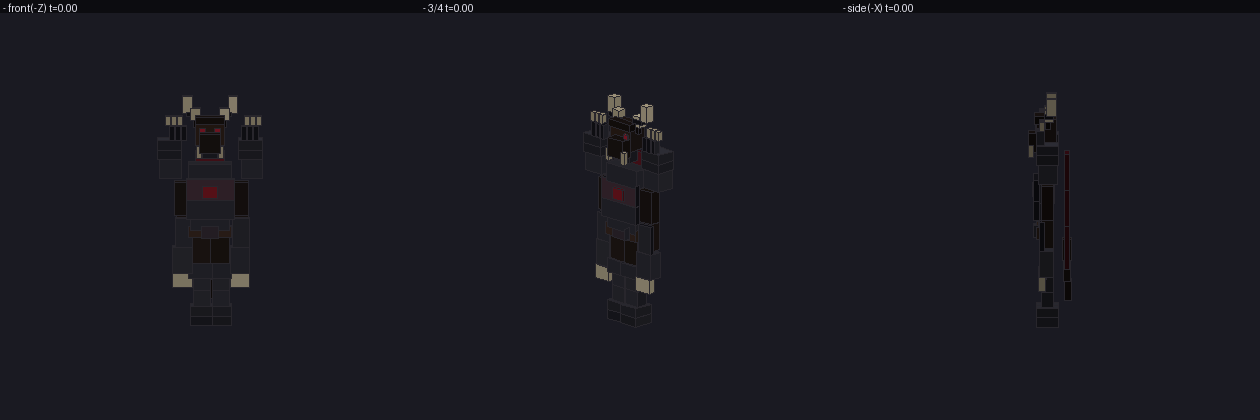
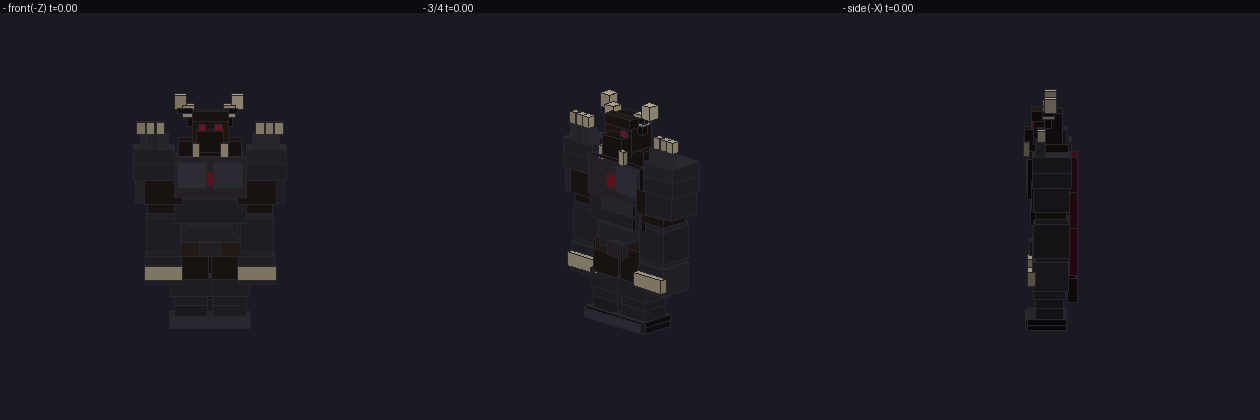
改(暗系BOSS): 巨兽人领主改成粗壮雄壮体型(肩宽4格/宽高比1.5, 厚胸厚臂巨拳粗腿), 图集升到512

diff --git a/src/main/java/com/tnc/tnc/boss/TNDarkGiantEntity.java b/src/main/java/com/tnc/tnc/boss/TNDarkGiantEntity.java
@@ -49,14 +49,14 @@ public class TNDarkGiantEntity extends Monster implements GeoEntity {
     public static final float MAX_HP = 3000.0F;
 
     /**
-     * 渲染缩放（1.0 = 原样 ✓）—— 模型实测：脚底 y=0 → 头顶（含角）y=96 单位 = <b>6 格</b> ✓
-     * （躯干肩高约 84 单位 = 5.25 格 ✓）⇒ 玩家(1.8)的 3.3 倍 ✓，本来就是"巨人" ✓，不用再放 ✓。
+     * 渲染缩放（1.0 = 原样 ✓）—— 模型实测：脚底 y=0 → 头顶（含角）y=97 单位 ≈ <b>6 格</b> ✓，
+     * <b>肩宽 64 单位 = 4 格</b> ✓（宽高比 1.5 ⇒ 作者要的"粗壮 / 雄壮"，不是竹竿 ✓；玩家是 3.0）。
      */
     public static final double MODEL_SCALE = 1.0D;
 
-    /** 碰撞箱（宽 × 高，格 ✓）—— 量自模型（身体 2.75 格宽 · 肩高 5.25 格 ✓），不然会穿墙/浮空 ✗。 */
-    public static final float HITBOX_WIDTH = 1.8F;
-    public static final float HITBOX_HEIGHT = 5.25F;
+    /** 碰撞箱（宽 × 高，格 ✓）—— 量自模型（肩甲外缘 4 格 · 头顶 5.6 格 ✓），不然会穿墙/浮空 ✗。 */
+    public static final float HITBOX_WIDTH = 2.4F;
+    public static final float HITBOX_HEIGHT = 5.6F;
 
     /** 顶部血条（作者要"boss 那种血量条"✓）。 */
     private final ServerBossEvent bossEvent = new ServerBossEvent(this.getDisplayName(),
